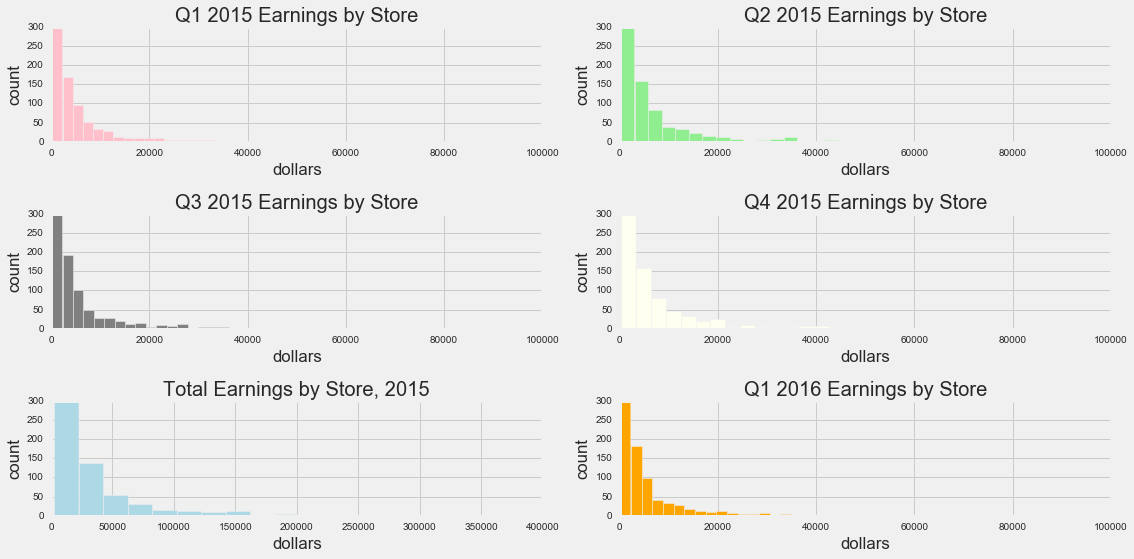
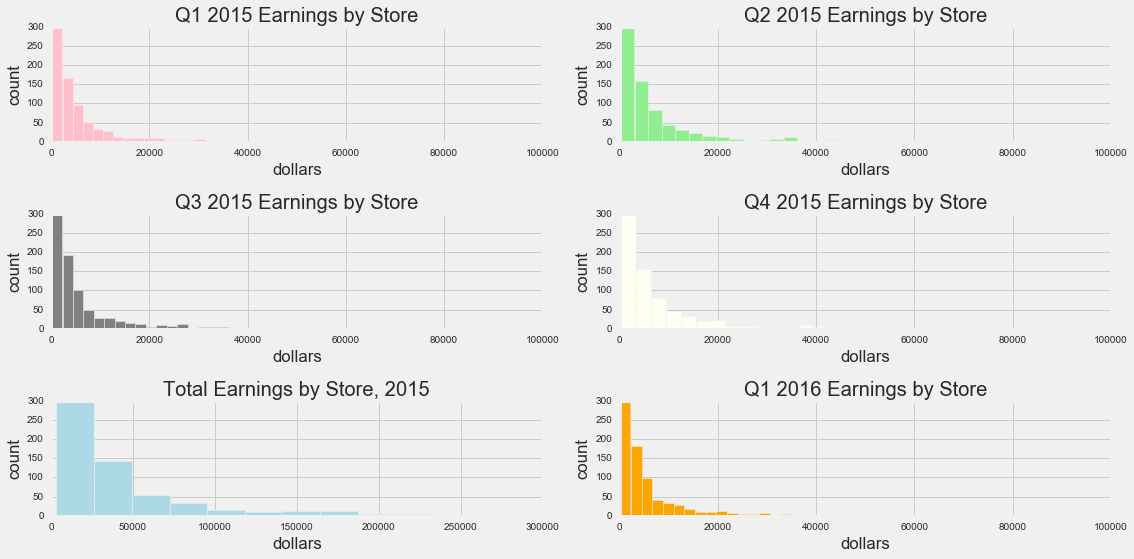
jun 30

Changed region(s): [[0.0617, 0.6995, 0.4321, 0.9732]]

diff --git a/_posts/2016-6-22-illinoisliquorreport.md b/_posts/2016-6-22-illinoisliquorreport.md
@@ -2,13 +2,33 @@
 layout: Project 3
 title: Illinois Liquor Sales Report
 ---
+We have analyzed the liquor sales at for each store using the provided data. Quarterly histograms (2015 Q1-Q4, 2016 Q1) and 2016 total sales histogram are shown here (note scale is different for the 2016 total histogram):
 
+![histo](../images/bottlehistos.png)
+
+These suggest strongly that sales patterns are similar by store for each quarter throughout the year.  
+
+Several bottle volumes are sold far more often than others (i.e., those less than 3000mL or so), and several stores have far higher sales for these volumes (lone dots plotting higher up on y-axis):
+
+![scatter](../images/bottlescatter.png)
+
+This histogram demonstrates, most notably, that 750mL is the most-sold bottle volume.  The height of peaks here depends on the y-axis value of points in the previous scatter plot, as well as the cumulative number of dots per bottle volume (x-axis value):
 
 ![histo](../images/bottlehisto.png)
 
+We used the following variables to build a linear model to predict 2016 total sales per store:
+
+* 2015 Q1 sales
+* volume of alcohol sold
+* number of bottles sold
+
+Using our model for 2015, the predicted total sales for each store in 2016 look very similar:
+
+![scatter](../images/predictions2016.png)
+
+Thus, there does not appear to be any projected increase or decrease in total sales, either in individual stores or throughout the entire state of Iowa as a whole.  It is not recommended that any adjustments in tax policy be made on the assumption of changes in alcohol sales such as these.
 
 
-![histo](../images/bottlescatter.png)
 
 
 
